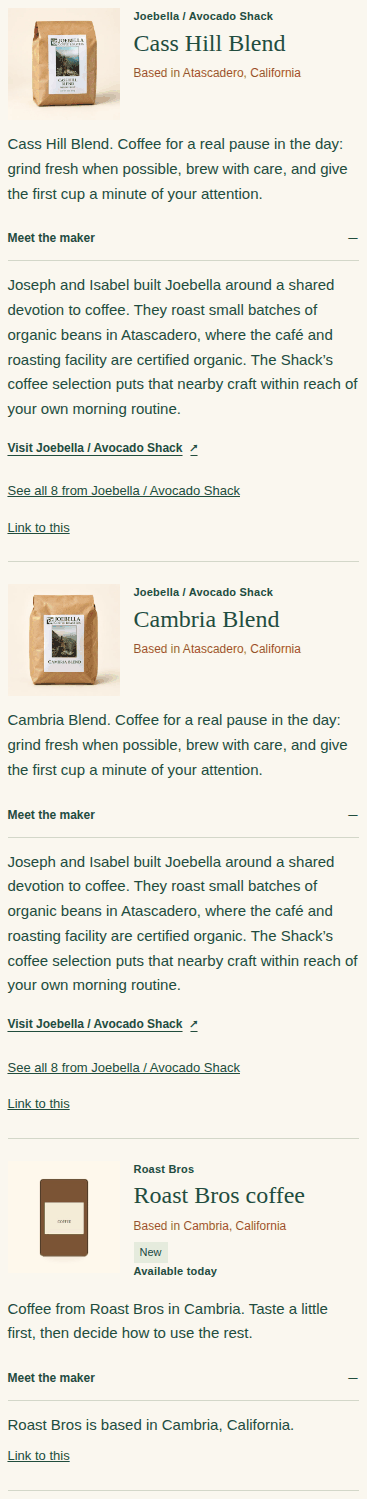
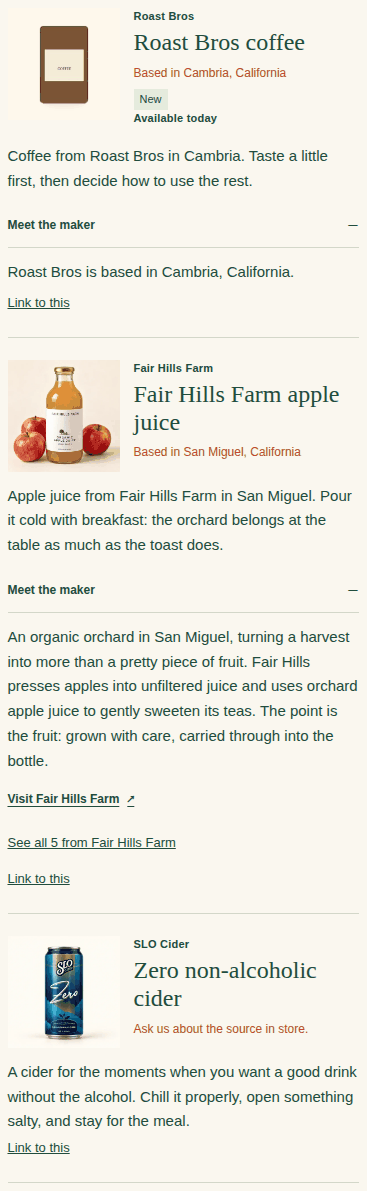
HASS-NEWITEM-1: refresh browser captures after merging main (new products first); report wording

Changed region(s): [[0.0, 0.0, 0.9891, 0.7456], [0.0, 0.7767, 0.9591, 0.9941], [0.5695, 0.6835, 0.6294, 0.7145]]

diff --git a/reports/hass/NEWITEM-1.md b/reports/hass/NEWITEM-1.md
@@ -49,7 +49,7 @@ At least 10 real examples of each are in the JSON (`pictures.catalog.examples` 1
 
 Example (`reports/hass/newitem-1/drafts.json`): *"got in some Cal Poly honey, jar of 8oz, $9"* -> `product.add{name "Cal Poly honey", brand "Cal Poly", category pantry, producerKey "Cal Poly", imageAlt "Cal Poly honey in a jar", description "Honey from Cal Poly in San Luis Obispo. Spoon a little beside cheese or onto buttered toast; give it a chance to be tasted on its own."}` (+ `set_availability yes` when the check is current); left off: price ($9), size (8oz). Descriptions, picture and records all pass the house check.
 
-**Before/after, in a real browser** (`hass/newitem_preview.py`, run: `PLAYWRIGHT_MODULE=<playwright> python3 hass/newitem_preview.py`; output in `reports/hass/newitem-1/preview/`). For each of three synthetic cases the shop's own pipeline builds the page twice and headless Chromium shows the new card between two existing cards of the same kind, with the maker note open, on a phone (390 px) and a desktop (1280 px) page:
+**Before/after, in a real browser** (`hass/newitem_preview.py`, run: `PLAYWRIGHT_MODULE=<playwright> python3 hass/newitem_preview.py`; output in `reports/hass/newitem-1/preview/`). For each of three synthetic cases the shop's own pipeline builds the page twice and headless Chromium shows the new card next to two existing cards that the same search lists (the site now puts new products first, so they follow it), with the maker note open, on a phone (390 px) and a desktop (1280 px) page:
 
 * BEFORE = what the shop shows today: the photo with its metadata removed by the existing `media._jpeg_copy`, Michael's words as the description, no maker entry.
 * AFTER = the draft.
